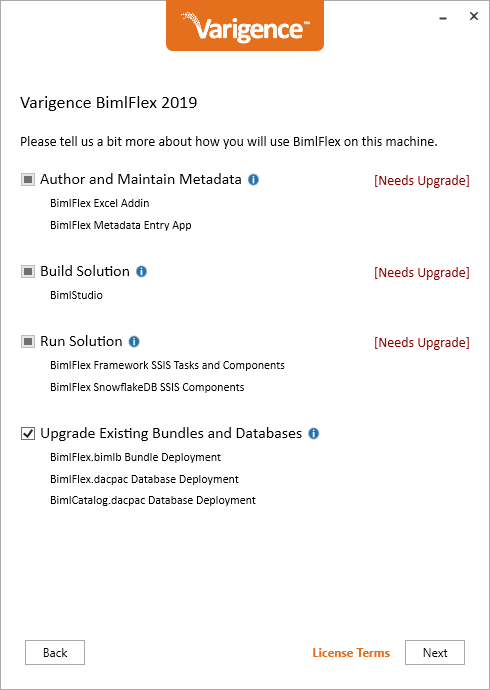
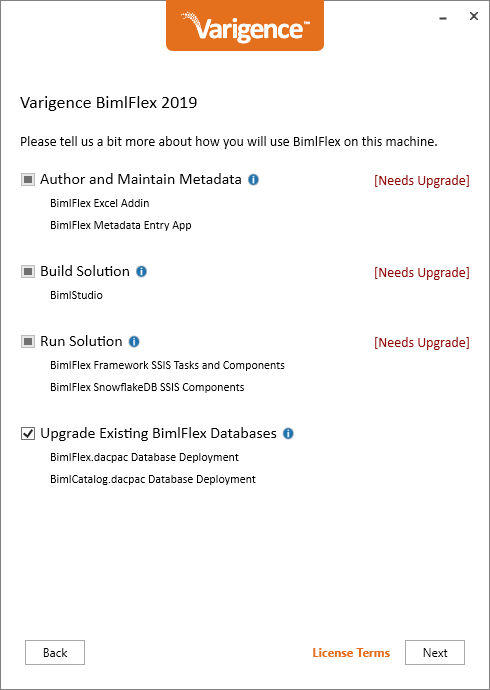
updated installer docs and release notes for 64106

diff --git a/bimlflex/release-notes/release-notes.md b/bimlflex/release-notes/release-notes.md
@@ -13,7 +13,19 @@ name: BimlFlex Release Notes
 > [!IMPORTANT]
 > BimlFlex 2019 is installed and upgraded through a consolidated installer, allowing new installations and upgrades to be completely managed through a single experience.
 >
-> This includes upgrading both existing databases and projects
+> Role-based installer downloads:
+>
+> * [Developer Setup](https://varigence.com/downloads/bimlflexdevsetup_2019.exe)
+> * [Modeler Setup](https://varigence.com/downloads/bimlflexmodelsetup_2019.exe)
+> * [Runtime Setup](https://varigence.com/downloads/bimlflexruntimesetup_2019.exe)
+
+## Bundle 64106
+
+* Update: The Bundle used in projects is now centralized to the compiler location. For normal usage this means projects will use the bundle in the `%PROGRMFILES%\Varigence\BimlStudio\5.0\` location. The installer experience has been simplified and there is no Bundle upgrade process. This aims to simplify the version experience and allow the development process to always use the current Bundle. Note that the Bundle Upgrade step has been removed from the installer. Note that even through existing projects will have a Bundle file in the local folder, BimlStudio will use the centrally located Bundle.
+* Update: A scenario where an ANSI-compatible delete statement was used in Azure SQL Data Warehouse PIT processing procedures has been updated to instead spawn Azure SQL Data warehouse optimized syntax.
+* Update: A scenario where some DROP statements for temporary tables in ELT code weren't included has been addressed and all temporary tables are now dropped before and after use.
+* Update: The BimlFlex App UX now allows filters to be applied to the Connections column in the Columns page
+* Update: The BimlFlex App sometimes did not show a global validation warning for Model Reference information on columns used in references in Data Vault.
 
 ## Bundle 64029
 

diff --git a/bimlflex/getting-started/installing-bimlflex.md b/bimlflex/getting-started/installing-bimlflex.md
@@ -22,7 +22,6 @@ The BimlFlex developer installation allows the installation of all components us
 * BimlFlex Excel-based metadata editor
 * SSIS Custom Components for SQL Server SSIS
 * SSIS Custom Components for Snowflake
-* Upgrades of existing project Bundle files
 * Upgrades of existing BimlFlex and BimlCatalog databases
 
 Run the developer installation and choose to install all components on the developer machine. For complete functionality all components are required.
@@ -96,10 +95,6 @@ right-click to force installation
 ![Installing BimlFlex -center -50%](../user-guide/images/bimlflex-ss-v5-bimlflex-2019-installer-s10.png)
 
 all unavailable options are picked for forced installation
-
-![Installing BimlFlex -center -50%](../user-guide/images/bimlflex-ss-v5-bimlflex-2019-installer-s11.png)
-
-Upgrade existing project Bundle files by adding them to the searchable path definition. Search for Bundle files and add all projects to be updated
 
 ![Installing BimlFlex -center -50%](../user-guide/images/bimlflex-ss-v5-bimlflex-2019-installer-s12.png)
 
